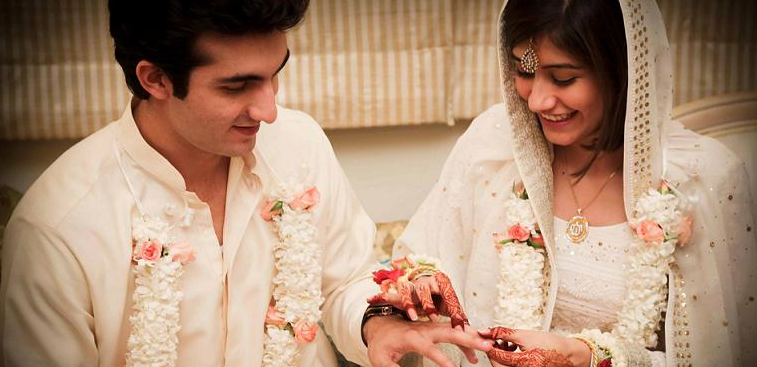
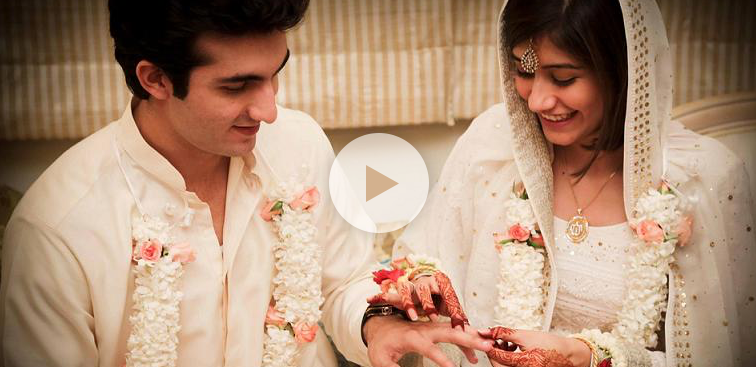
Setipe.com
Customization stylesheets

diff --git a/index.html b/index.html
@@ -15,13 +15,16 @@
         <nav class="navbar navbar-inverse navbar-fixed-top">
             <div class="container">
                 <div class="navbar-header">
-                    <a class="navbar-brand" href="#">
+                    <a class="navbar-brand hidden-xs show-sm show-md show-lg" href="#">
                         <img class="" src="assets/img/logo.png" width="111" height="20"/>
+                    </a>
+                    <a class="navbar-brand show-xs hidden-sm hidden-md hidden-lg" href="#">
+                        <img class="" src="assets/img/logo-xs.png" width="" height=""/>
                     </a>
                 </div>
                 <div class="navbar-left text-center"><strong>Healty Relationshiops.</strong> For Indonesia</div>
                 <div class="navbar-right language hidden-xs">
-                    Language 
+                    <small><span class="glyphicon glyphicon-globe" aria-hidden="true"></span> Language</small>
                 </div> 
             </div>
         </nav>
@@ -32,11 +35,10 @@
                     Finding the right <strong class="clr1">life partner</strong> to accompany us <br/> in this journey can boost your level of <strong class="clr2">happiness</strong>
                 </h1>
                 <h4>
-                    <i>ready to meet your ideal partner ? <a href="#"><u>get started now</u></a></i>
+                    <i>ready to meet your ideal partner ? <a href="http://setipe.com/homepage" target="_blank"><u>get started now</u></a></i>
                 </h4>
                 <div class="video">
                     <a href="#" data-toggle="modal" data-target="#video-modal">
-                        <p><img src="assets/img/graphics/play.png" width="" height="" class="play-video" /></p>
                         <img width="" height="" src="assets/img/placeholders/video-thumbnail.png" class="video-thumbnail img-responsive"/>
                     </a>
                 </div>
@@ -66,15 +68,15 @@
                     </ul>
                 </div>
                 <div class="dotted"></div>
-                <h2>But wait, there is actually more:</h2>
+                <h2><strong>But wait, there is actually more:</strong></h2>
             </div>
         </section>
         
         <section class="benefits-second">
             <div class="container">
                 <div class="benefit-list">
-                    <div class="col-md-2 col-sm-2 col-xs-12">
-                        <img src="assets/img/graphics/love.png"/>
+                    <div class="col-md-2 col-sm-2 col-xs-2">
+                        <img src="assets/img/graphics/love.png" class="img-responsive"/>
                     </div>
                     <div class="col-md-10 col-sm-10 col-xs-10">
                         A healthy relationship gives you a higher chance to achieve better <mark><strong>physical, mental</strong></mark> and <mark><strong>spiritual health</strong></mark> i.e. you tend to <mark><strong>live longer</strong></mark>.
@@ -82,8 +84,8 @@
                 </div>
                 
                 <div class="benefit-list">
-                    <div class="col-md-2 col-sm-2 col-xs-12">
-                        <img src="assets/img/graphics/ring.png"/>
+                    <div class="col-md-2 col-sm-2 col-xs-2">
+                        <img src="assets/img/graphics/ring.png" class="img-responsive"/>
                     </div>
                     <div class="col-md-10 col-sm-10 col-xs-10">
                         Imagine your family and friends stop asking you <mark><strong>“when are you going to get married?!”</strong></mark>
@@ -91,15 +93,15 @@
                 </div>
                 
                 <div class="benefit-list">
-                    <div class="col-md-2 col-sm-2 col-xs-12">
-                        <img src="assets/img/graphics/baby.png"/>
+                    <div class="col-md-2 col-sm-2 col-xs-2">
+                        <img src="assets/img/graphics/baby.png" class="img-responsive"/>
                     </div>
                     <div class="col-md-10 col-sm-10 col-xs-10">
                         Build stronger family units which produce happier babies which make for a <mark><strong>better future</strong></mark>.
                     </div>
                 </div>
                 <div class="call-action text-center">
-                    <i><strong>So, what are you waiting for</strong></i>&nbsp;&nbsp; <a href="#" class="btn btn-lg btn-purple">Get Started Now</a>
+                    <i><strong>So, what are you waiting for</strong></i> <a href="#" class="btn btn-lg btn-purple">Get Started Now</a>
                 </div>
             </div>
         </section>
@@ -138,6 +140,53 @@
                 <h2>Enjoy the journey with an <strong>eye on the destination</strong>.</h2>
                 <p>When it comes to finding the love of your life the journey is as important as the destination because quite simply <strong>the journey makes the destination! </strong>If you can’t enjoy your own company then who will?
     </p>
+            </div>
+            <br/><br/>
+            <center>
+                <div id="carousel-example-generic" class="carousel slide" data-ride="carousel">
+                    <!-- Indicators -->
+                    <ol class="carousel-indicators">
+                        <li data-target="#carousel-example-generic" data-slide-to="0" class="active"></li>
+                        <li data-target="#carousel-example-generic" data-slide-to="1"></li>
+                    </ol>
+
+                    <!-- Wrapper for slides -->
+                    <div class="carousel-inner" role="listbox">
+                        <div class="item active">
+                            <img src="assets/img/placeholders/slider01.png" alt="image01" class="img-responsive">
+                            <div class="carousel-caption">
+                                <h2>Have a <strong>sense of humour</strong></h2>
+                                <h4>If you can laugh at the emotional tragedies of being single then you know you’re in good shape.</h4>
+                            </div>
+                        </div>
+                        <div class="item">
+                            <img src="assets/img/placeholders/slider02.png" alt="image01" class="img-responsive">
+                            <div class="carousel-caption">
+                                <h2>Have a <strong>sense of humour</strong></h2>
+                                <h4>If you can laugh at the emotional tragedies of being single then you know you’re in good shape.</h4>
+                            </div>
+                        </div>
+                    </div>
+                </div>
+            </center>
+            <br/><br/><br/>
+        </section>
+        
+        <section class="step">
+            <h2><img src="assets/img/logo-xs.png"/> Step 3 - <strong>Be Proactive</strong></h2>
+        </section>
+        
+        <section class="step_03">
+            <div class="container">
+                <h1>You can’t expect <strong>great things</strong> to happen without effort.</h1>
+                <div class="col-md-7 col-sm-7 col-xs-12">
+                    If things are going to happen then it has to start from you. Let go of whatever is outside your control but only <strong>after you make your own destiny with the things you can</strong>. <br/><br/><strong>Take every opportunity to meet people  </strong>and establish what it is you’re looking for in a partner but keep an open mind. <br/><br/><a href="#">Find out more!</a>
+                    <br/><br/>
+                </div>
+                <div class="col-md-5 col-sm-5 col-xs-12">
+                    <img src="assets/img/placeholders/thumbnail.png" class="img-responsive radius"/>
+                    <small><i>The success story, <a href="#"><strong>Andre & Devina</strong></a></i></small>
+                </div>
             </div>
         </section>
         

diff --git a/assets/css/styles.css b/assets/css/styles.css
@@ -23,7 +23,8 @@ nav.navbar {
 section.benefits .container,
 section.benefits-second .container,
 section.step_01 .container,
-section.step_02 .container{
+section.step_02 .container,
+section.step_03 .container {
     width: auto;
     max-width: 780px;
     padding: 0 15px;
@@ -37,6 +38,18 @@ section.step_02 .container{
 .btn.btn-purple:hover {
     color: #ffffff;
     background-color: #762567;
+}
+.clr-margin {
+    margin: 0px !important;
+}
+.radius {
+    border-radius: 5px;
+}
+@media (min-width: 768px) {
+    .video .modal-dialog {
+        width: 75%;
+        margin: 30px auto;
+    }
 }
 
 /* Header */
@@ -79,29 +92,17 @@ section.step_02 .container{
         box-shadow: #000 0px 2px 40px;
         display: inline;
     }
-    a p {
-        opacity: 0.5;
-        text-align: center;
-        margin: 65px 0px;
-        display: inline-block;
-    }
-    a:hover p {
-        opacity: 0.8;
-    }
-    a p img.play-video {
-        position: absolute;
-        left: 47%;
-    }
     div.video a {
         text-align: center;
+        background: #000;
+        display: inline-block;
     }
-
-@media (min-width: 768px) {
-    .video .modal-dialog {
-        width: 75%;
-        margin: 30px auto;
+    div.video a img {
+        opacity: 0.9;
     }
-}
+    div.video a:hover img {
+        opacity: 1;
+    }
 
 /* Benefits */
     section.benefits {
@@ -223,5 +224,41 @@ section.step_02 .container{
         padding: 50px 20px;
         text-align: center;
     }
+    section.step_02 p {
+        opacity: 0.7;
+        font-weight: 300;
+    }
+    section.step_02 .img-responsive, .carousel-inner>.item>img, .carousel-inner>.item>a>img {
+        border-radius: 5px;
+        box-shadow: #000 0px 5px 50px;
+    }
+    section.step_02 .carousel-inner {
+        overflow: visible;
+    }
+    section.step_02 .carousel-indicators {
+        bottom: -55px;
+    }
+    section.step_02 .carousel-caption {
+        left: 0px;
+        right: 0px;
+        padding-bottom: 15px;
+    }
 
-    
+/* Step 03 */
+    section.step_03 {
+        padding: 50px 20px;
+        background-color: #853e78;
+        color: #ffffff;
+        font-weight: 300;
+    }
+    section.step_03 h1 {
+        text-align: center;
+        font-weight: 300;
+        margin-bottom: 50px;
+    }
+    section.step_03 a {
+        font-weight: 300;
+        color: #fff;
+        text-decoration: underline;
+        font-style: italic;
+    }
